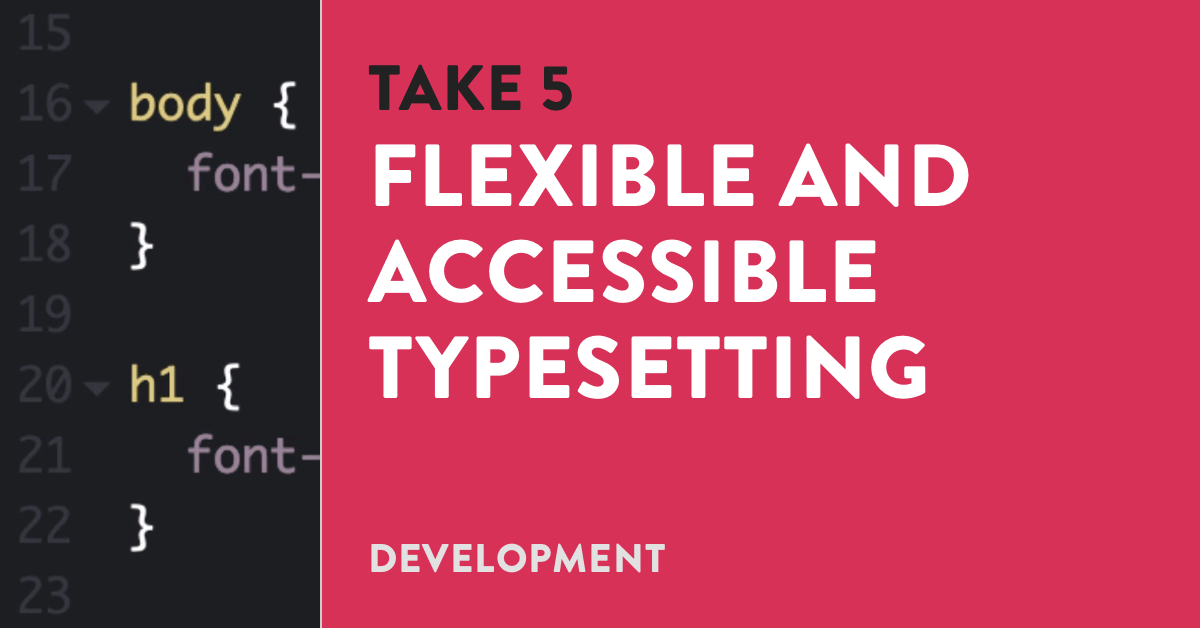
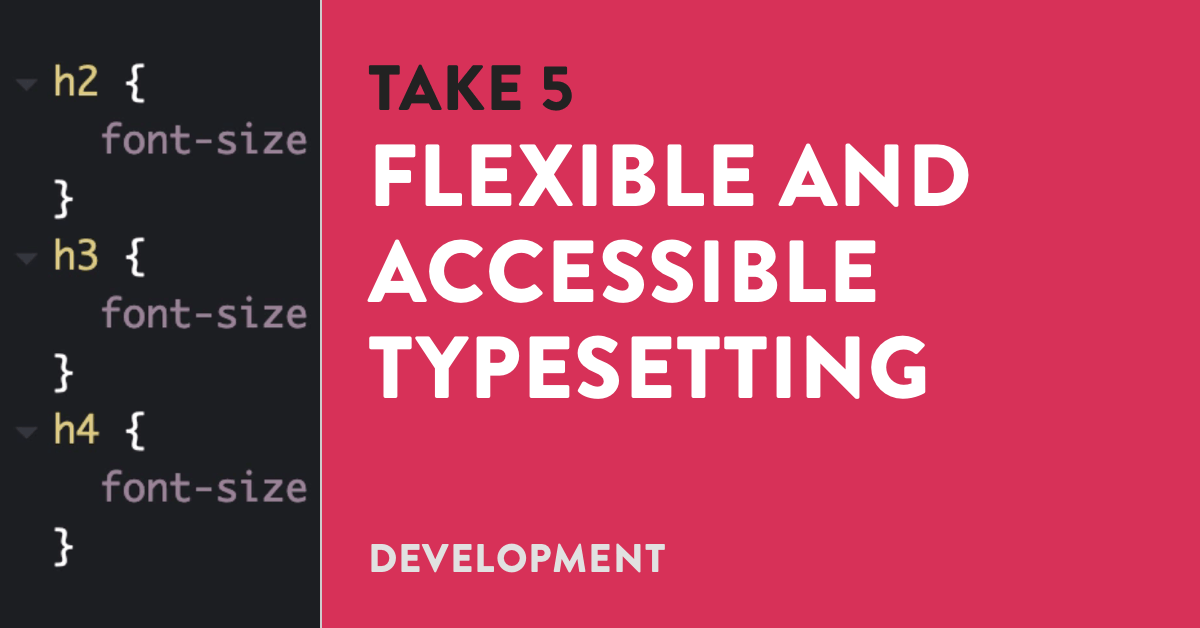
Merge pull request #301 from gymnasium/develop
[staging deploy]

Pull request: [staging deploy]

diff --git a/src/scss/base/_layouts.scss b/src/scss/base/_layouts.scss
@@ -123,7 +123,7 @@
 
   .cta {
     color: var(--mono-100);
-    padding: 1.2em;
+    padding: 1.2rem;
 
     p {
       font-size: 1rem;